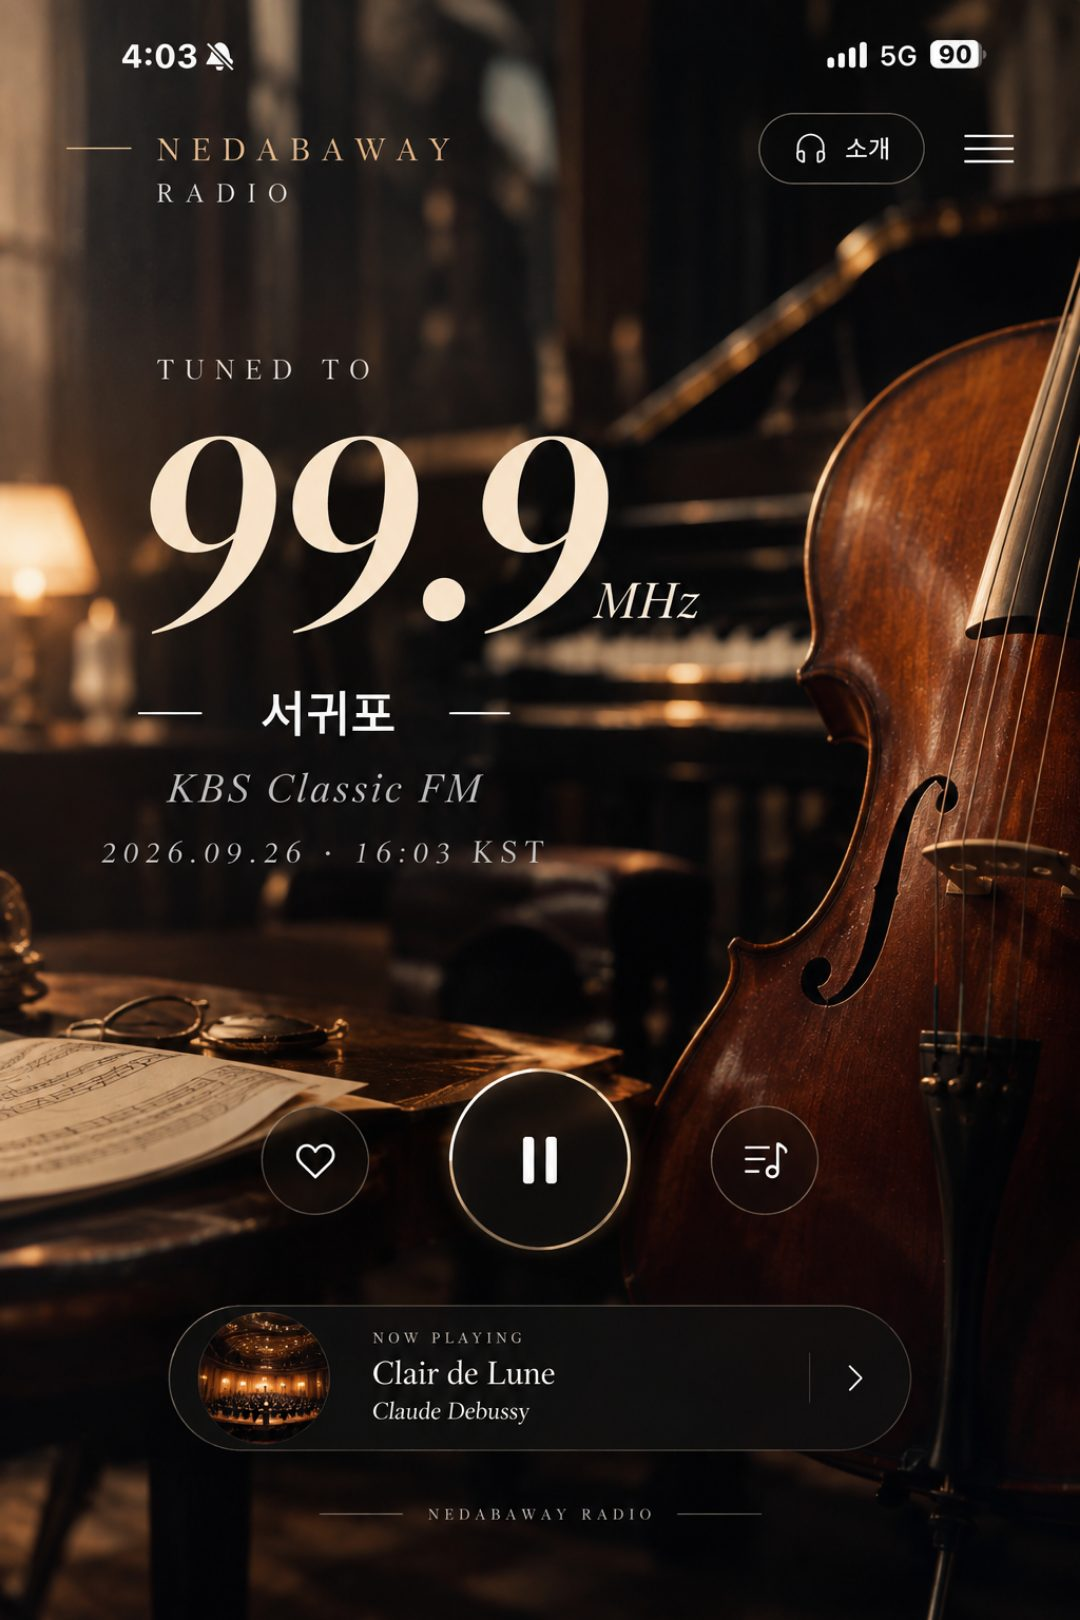
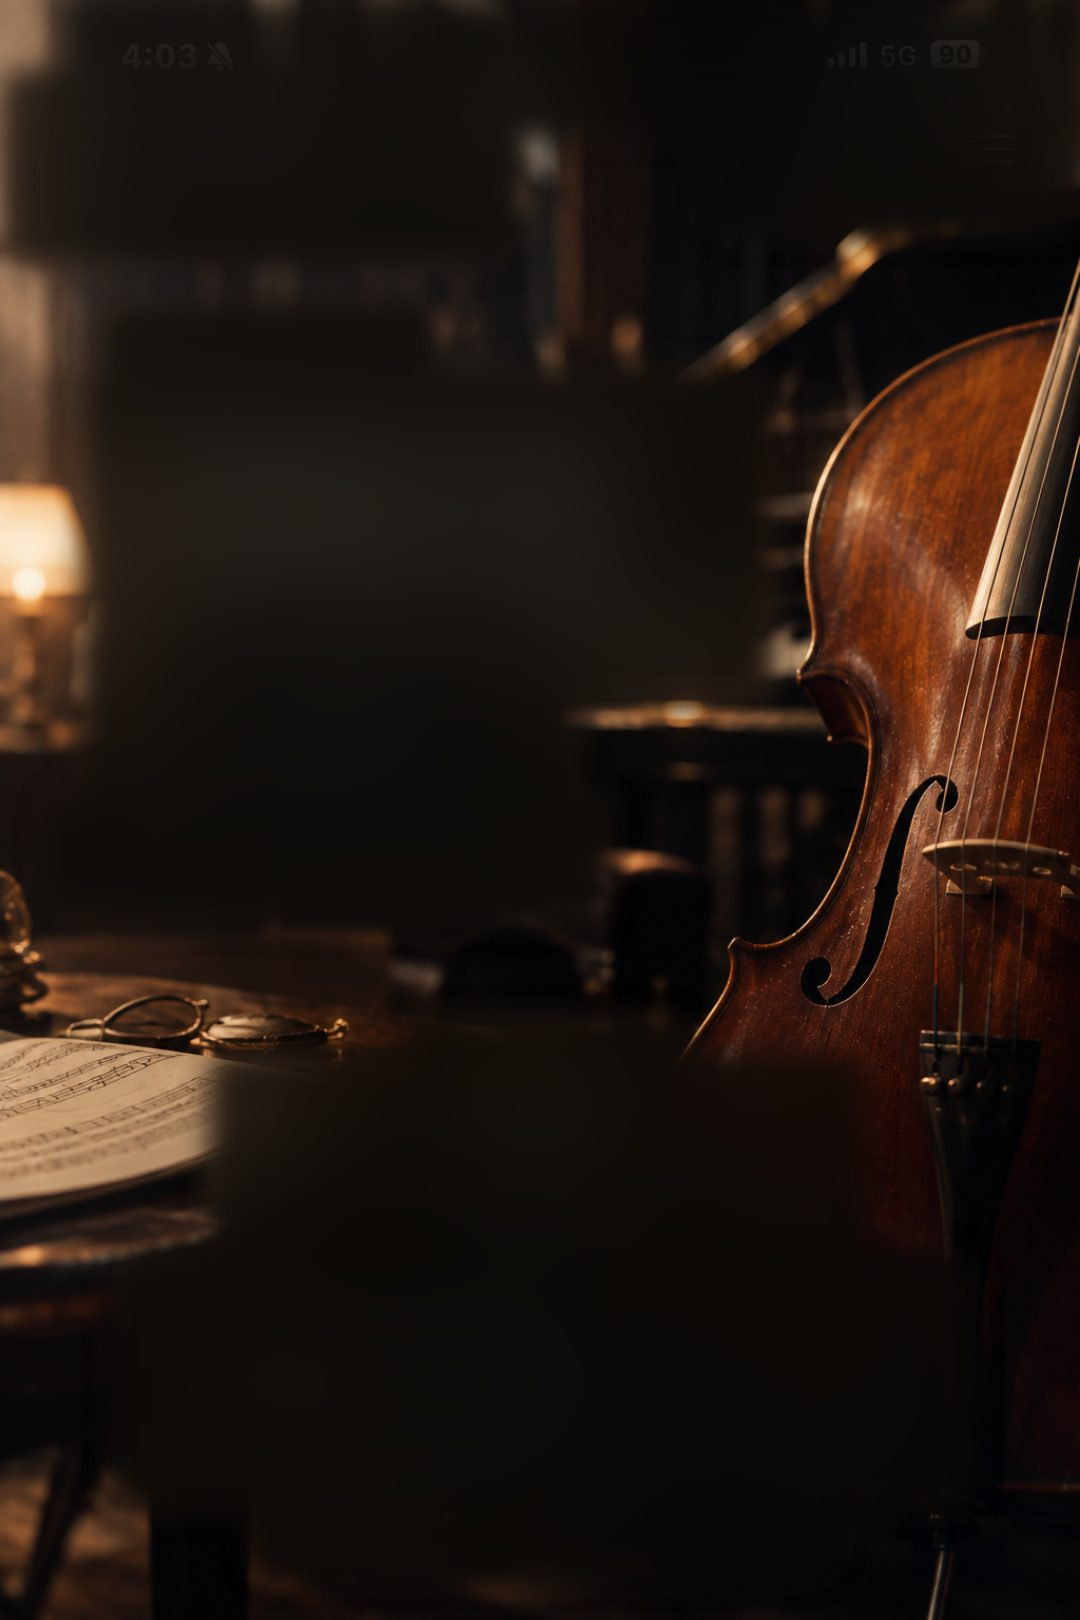
fix(radio): 배경 사진에 박힌 시안 글자 제거 — 실제 글자와 겹치던 잔상 해소
시안 이미지의 글자·버튼·상태바 영역만 골라 강한 흐림 후 어둡게 눌러 지운 배경으로 교체
(첼로·램프·악보 등 장면은 유지). 설치된 앱이 새 배경을 받도록 sw 캐시 v31.

🗿 MoAI <email@mo.ai.kr>
Claude-Session: https://claude.ai/code/session_01HDrgnynEjvrEG7fJcvHcWb

diff --git a/radio/sw.js b/radio/sw.js
@@ -1,4 +1,4 @@
-const CACHE = 'classic-fm-v30';
+const CACHE = 'classic-fm-v31';
 const ASSETS = [
   './',
   './index.html',
